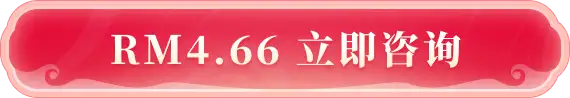
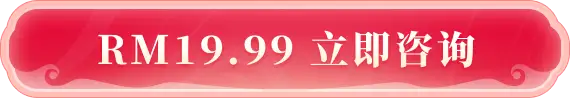
feat:替换按钮图片

Changed region(s): [[0.1491, 0.3061, 0.8351, 0.7041]]

diff --git a/src/pages/emotion_fortune/detail/index.vue b/src/pages/emotion_fortune/detail/index.vue
@@ -1,92 +1,36 @@
 <template>
-  <div :class="{ detail: true, 'hidden-scroll': pay_modal || !!localStorage.getItem('mlxz_outer_animation') || show_discount_modal}">
-    <FbShareNotice v-if="is_show_fb_notice && !localStorage.getItem('mlxz_outer_animation')"/>
-    <AnimationPage v-if="!!localStorage.getItem('mlxz_outer_animation')" product_key="h5_emotion2024" :visible="showAnimation"  @update-visible="showAnimation = false"/>
-    <PayGuideModal v-if="showPayGuideModal" @show_modal="showModal"/> 
-    <img
-      class="header-title"
-      :src="is_cn ? cn_info_title : tw_info_title"
-      alt=""
-    />
-    
-    
+  <div
+    :class="{ detail: true, 'hidden-scroll': pay_modal || !!localStorage.getItem('mlxz_outer_animation') || show_discount_modal }">
+    <FbShareNotice v-if="is_show_fb_notice && !localStorage.getItem('mlxz_outer_animation')" />
+    <AnimationPage v-if="!!localStorage.getItem('mlxz_outer_animation')" product_key="h5_emotion2024"
+      :visible="showAnimation" @update-visible="showAnimation = false" />
+    <PayGuideModal v-if="showPayGuideModal" @show_modal="showModal" />
+    <img class="header-title" :src="is_cn ? cn_info_title : tw_info_title" alt="" />
+
+
     <div :class="{ 'pay-box': true, 'cn-bg': is_cn, 'tw-bg': !is_cn }">
-      <BaziTable
-        :sex="sex"
-        :is_result="is_result"
-        :username="username"
-        :gongli_nongli="gongli_nongli"
-        :picker_date_yangli="picker_date_yangli"
-        :picker_date_nongli="picker_date_nongli"
-        :gan="gan"
-        :zhi="zhi"
-        :nayin="nayin"
-        :cai_bo_num="cai_bo_num"
-        :gui_ren_num="gui_ren_num"
-        :hun_yin_num="hun_yin_num"
-        :ming_ge="ming_ge"
-        :riyuanqiangruo="riyuanqiangruo"
-        :shi_ye_num="shi_ye_num"
-        :wuxingqiang="wuxingqiang"
-        :tao_hua_num="0"
-        fuqigong=""
-        text_color="#6D2215"
-        minge_color="#EC436B"
-        :show_daji="false"
-        bg="#fff"
-        width="6.5rem"
-        table_border="0.02rem solid #EC436B"
-        border_color="#EC436B"
-        :is_show_taohua="1"
-        :change_color="true"
-      >
+      <BaziTable :sex="sex" :is_result="is_result" :username="username" :gongli_nongli="gongli_nongli"
+        :picker_date_yangli="picker_date_yangli" :picker_date_nongli="picker_date_nongli" :gan="gan" :zhi="zhi"
+        :nayin="nayin" :cai_bo_num="cai_bo_num" :gui_ren_num="gui_ren_num" :hun_yin_num="hun_yin_num" :ming_ge="ming_ge"
+        :riyuanqiangruo="riyuanqiangruo" :shi_ye_num="shi_ye_num" :wuxingqiang="wuxingqiang" :tao_hua_num="0"
+        fuqigong="" text_color="#6D2215" minge_color="#EC436B" :show_daji="false" bg="#fff" width="6.5rem"
+        table_border="0.02rem solid #EC436B" border_color="#EC436B" :is_show_taohua="1" :change_color="true">
       </BaziTable>
     </div>
-    <PayItem product_key="h5_emotion2024" @show_modal="showModal" :show_pay_guide_modal="showPayGuideModal"/>
+    <PayItem product_key="h5_emotion2024" @show_modal="showModal" :show_pay_guide_modal="showPayGuideModal" />
     <div :class="['method-box', !is_show_combination ? 'method-height' : null]">
-      <img
-        id="method-title-img"
-        class="method-title-img"
-        :src="is_cn ? img_zhifu_jian : img_zhifu_fan"
-      />
-      <MarriagesPayDetail
-        v-if="is03_series"
-        className="pay-method"
-        ref="payDetail"
-        :product_key="product_key"
-        :bg="language === 'zh-CN' ? cn_modal_bg : tw_modal_bg"
-        :query_user_string="query_user_string"
-        e_view_id="10006"
-        c_view_id="-10005"
-        e_view_name="view_2024lovely_pay"
-        a_view_token="184kba"
-        c_click_id="-10006"
-        e_click_name="click_2024lovely_pay"
-        a_click_token="2rov44"
-      />
-      <PayDetail
-        v-else
-        className="pay-method"
-        ref="payDetail"
-        :product_key="product_key"
-        :bg="language === 'zh-CN' ? cn_modal_bg : tw_modal_bg"
-        :query_user_string="query_user_string"
-        e_view_id="10006"
-        c_view_id="-10005"
-        e_view_name="view_2024lovely_pay"
-        a_view_token="184kba"
-        c_click_id="-10006"
-        e_click_name="click_2024lovely_pay"
-        a_click_token="2rov44"
-      />
+      <img id="method-title-img" class="method-title-img" :src="is_cn ? img_zhifu_jian : img_zhifu_fan" />
+      <MarriagesPayDetail v-if="is03_series" className="pay-method" ref="payDetail" :product_key="product_key"
+        :bg="language === 'zh-CN' ? cn_modal_bg : tw_modal_bg" :query_user_string="query_user_string" e_view_id="10006"
+        c_view_id="-10005" e_view_name="view_2024lovely_pay" a_view_token="184kba" c_click_id="-10006"
+        e_click_name="click_2024lovely_pay" a_click_token="2rov44" />
+      <PayDetail v-else className="pay-method" ref="payDetail" :product_key="product_key"
+        :bg="language === 'zh-CN' ? cn_modal_bg : tw_modal_bg" :query_user_string="query_user_string" e_view_id="10006"
+        c_view_id="-10005" e_view_name="view_2024lovely_pay" a_view_token="184kba" c_click_id="-10006"
+        e_click_name="click_2024lovely_pay" a_click_token="2rov44" />
     </div>
-    <GejuInfo
-      v-if="is_show_combinationSpecial02"
-      style="margin-bottom: 0.36rem"
-      :product_key="product_key"
-      :user_desc="[mingge_desc]"
-      :dataList="[gejujiedu]"
-    />
+    <GejuInfo v-if="is_show_combinationSpecial02" style="margin-bottom: 0.36rem" :product_key="product_key"
+      :user_desc="[mingge_desc]" :dataList="[gejujiedu]" />
     <!-- <div class="card-box">
       <canvas id="qian"></canvas>
     </div> -->
@@ -119,9 +63,9 @@
       e_click_name="click_2024lovely_pay"
       a_click_token="2rov44"
     /> -->
-    <img @click="payOrder" class="fix-btn emo-btn" :src="btn_url" />
+    <img @click="payOrder" :class="['emo-btn', is03_series? 'fix-btn1': 'fix-btn']" :src="btn_url" />
     <HomeFooter product_key="h5_emotion2024" />
-    <FixedDiscountModal product_key="h5_emotion2024" @change_discount_modal="change_discount_modal"/>
+    <FixedDiscountModal product_key="h5_emotion2024" @change_discount_modal="change_discount_modal" />
   </div>
 </template>
 
@@ -139,6 +83,10 @@ import cn_home_btn from '../../../assets/img/emotion_v2/new/cn/pay.webp';
 import tw_home_btn from '../../../assets/img/emotion_v2/new/tw/pay.webp';
 import cn_home_xs_btn from '../../../assets/img/emotion_v2/new/cn/pay_xs.webp';
 import tw_home_xs_btn from '../../../assets/img/emotion_v2/new/tw/pay_xs.webp';
+
+import img_home_btu_zixun_cn from '../../../assets/img/emotion_marriages/cn/img_home_btu_zixun_cn.webp'
+import img_home_btu_zixun_tw from '../../../assets/img/emotion_marriages/tw/img_home_btu_zixun_tw.webp'
+
 
 import PayCard from '../../../components/PayCard.vue';
 import cn_card_1 from '../../../assets/img/emotion/home_card1.webp';
@@ -209,6 +157,8 @@ export default {
       tw_home_btn1,
       cn_home_xs_btn,
       tw_home_xs_btn,
+      img_home_btu_zixun_cn,
+      img_home_btu_zixun_tw,
       cn_zhong3,
       cn_zhong4,
       tw_zhong3,
@@ -264,7 +214,7 @@ export default {
   },
   watch: {
     showAnimation(val) {
-      if(!val) {
+      if (!val) {
         setTimeout(() => {
           this.$nextTick(() => {
             //排除渠道3
@@ -282,10 +232,10 @@ export default {
 
   computed: {
     is03_series() {
-      return utils.getEndStr(utils.getFBChannel(), 2) ==='03'
+      return utils.getEndStr(utils.getFBChannel(), 2) === '03'
     },
     is_show_fb_notice() {
-      return utils.isFBContainer() && utils.getFBChannel().indexOf('02')>-1;
+      return utils.isFBContainer() && utils.getFBChannel().indexOf('02') > -1;
     },
     //套餐支付显示逻辑
     is_show_combination() {
@@ -313,6 +263,9 @@ export default {
     channel2() {
       return ['enjoy02', 'panda02'].includes(utils.getFBChannel());
     },
+    is03_series() {
+      return utils.getEndStr(utils.getFBChannel(), 2) === '03'
+    },
     is_cn() {
       return utils.getLanguage() === 'zh-CN';
     },
@@ -320,22 +273,26 @@ export default {
       if (this.language === 'zh-CN') {
         if (this.channel1) {
           return cn_home_btn;
-        } 
+        }
         else if (this.channel2) {
           // return cn_home_xs_btn;
           return cn_home_btn1;
-        } 
+        } else if (this.is03_series) {
+          return img_home_btu_zixun_cn;
+        }
         else {
           return cn_home_btn1;
         }
       } else {
         if (this.channel1) {
           return tw_home_btn;
-        } 
+        }
         else if (this.channel2) {
           // return tw_home_xs_btn;
           return tw_home_btn1;
-        } 
+        } else if (this.is03_series) {
+          return img_home_btu_zixun_tw;
+        }
         else {
           return tw_home_btn1;
         }
@@ -400,10 +357,10 @@ export default {
     });
   },
   methods: {
-     /**
-     * 显示低价折扣遮罩
-     */
-     change_discount_modal(val) {
+    /**
+    * 显示低价折扣遮罩
+    */
+    change_discount_modal(val) {
       this.show_discount_modal = val;
     },
     showModal() {
@@ -484,30 +441,27 @@ export default {
       );
       let lunar = solar.getLunar();
       this.picker_date_nongli = +this.gongli_nongli
-        ? `${lunar.getYear()}年${lunar.getMonthInChinese()}月${lunar.getDayInChinese()} ${
-            this.picker_hour
-          }`
+        ? `${lunar.getYear()}年${lunar.getMonthInChinese()}月${lunar.getDayInChinese()} ${this.picker_hour
+        }`
         : `${this.year}年${utils.formateNongliMonth(
-            this.month
-          )}${utils.formateNongliDate(this.date)} ${this.picker_hour}`;
+          this.month
+        )}${utils.formateNongliDate(this.date)} ${this.picker_hour}`;
       this.picker_date_yangli = +this.gongli_nongli
         ? `${this.year}-${this.month}-${this.date} ${this.picker_hour}`
         : `${Lunar.fromYmd(+this.year, +this.month, +this.date)
-            .getSolar()
-            .toString()} ${this.picker_hour}`;
+          .getSolar()
+          .toString()} ${this.picker_hour}`;
 
       let nongli_desc = +this.gongli_nongli
         ? `${lunar.getYear()}年${lunar.getMonthInChinese()}月${lunar.getDayInChinese()} `
         : `${this.year}年${utils.formateNongliMonth(
-            this.month
-          )}${utils.formateNongliDate(this.date)}`;
+          this.month
+        )}${utils.formateNongliDate(this.date)}`;
       this.mingge_desc = +this.gongli_nongli
-        ? `${(this.username = utils.getShortStr(arr[0], 4))}，${
-            this.sex === 0 ? '女' : '男'
-          }，${this.year}年${this.month}月${this.date}日生人`
-        : `${(this.username = utils.getShortStr(arr[0], 4))}，${
-            this.sex === 0 ? '女' : '男'
-          }，${nongli_desc}生人`;
+        ? `${(this.username = utils.getShortStr(arr[0], 4))}，${this.sex === 0 ? '女' : '男'
+        }，${this.year}年${this.month}月${this.date}日生人`
+        : `${(this.username = utils.getShortStr(arr[0], 4))}，${this.sex === 0 ? '女' : '男'
+        }，${nongli_desc}生人`;
     },
 
     // 支付弹窗
@@ -580,14 +534,12 @@ export default {
   }
 
   .cn-bg {
-    background: url(../../../assets/img/emotion_v2/new/cn/detail/img_xinxi_jian.webp)
-      no-repeat;
+    background: url(../../../assets/img/emotion_v2/new/cn/detail/img_xinxi_jian.webp) no-repeat;
     background-size: 100% 100%;
   }
 
   .tw-bg {
-    background: url(../../../assets/img/emotion_v2/new/tw/detail/img_xinxi_fan.webp)
-      no-repeat;
+    background: url(../../../assets/img/emotion_v2/new/tw/detail/img_xinxi_fan.webp) no-repeat;
     background-size: 100% 100%;
   }
 
@@ -647,12 +599,21 @@ export default {
 }
 
 .fix-btn {
-  width: 6.26rem;
+  width: 6.28rem;
   height: 1.34rem;
   position: fixed;
   bottom: 0.2rem;
   z-index: 99;
 }
+.fix-btn1 {
+  width: 5.7rem;
+  height: 0.98rem;
+  position: fixed;
+  bottom: 0.2rem;
+  z-index: 99;
+}
+
+
 
 .pay-method {
   width: 6.5rem;

diff --git a/src/router/emotion_fortune.js b/src/router/emotion_fortune.js
@@ -11,7 +11,28 @@ import index from './../pages/emotion_fortune/home/index.vue';
 import detail from './../pages/emotion_fortune/detail/index.vue';
 import result from './../pages/emotion_fortune/result/index.vue';
 import utils from '../libs/utils';
+import request from '../api/request';
 Vue.use(Router);
+
+const visitorLoginAPI = async (data, callback) => {
+  if (
+    localStorage.getItem('mlxz_outer_open_uid') ||
+    localStorage.getItem('mlxz_outer_access_token') ||
+    localStorage.getItem('mlxz_outer_visitor_id')
+  ) {
+
+  }
+  else {
+    const res = await request('/web/login/visitor', 'POST', data);
+    if (res.status !== 1000) return;
+    localStorage.setItem('mlxz_outer_open_uid', res.data.open_uid);
+    localStorage.setItem('mlxz_outer_access_token', res.data.access_token);
+    localStorage.setItem('mlxz_outer_visitor_id', res.data.visitor_id);
+    fbq('init', utils.getFbId()[utils.getFBChannel()], {'external_id': localStorage.getItem('mlxz_outer_visitor_id')|| ''});
+    // console.log('首次登录');
+  }
+ 
+};
 
 const checkCurrentCountry = async (callback) => {
   if (localStorage.getItem('current_country')) {
@@ -34,6 +55,7 @@ export default new Router({
       name: 'index',
       component: index,
       beforeEnter: (to, from, next) => {
+        visitorLoginAPI()
         if (utils.getEndStr(utils.getFBChannel(), 2) === '03') {
           checkCurrentCountry(next)
         } else {
@@ -46,6 +68,7 @@ export default new Router({
       name: 'detail',
       component: detail,
       beforeEnter: (to, from, next) => {
+        visitorLoginAPI()
         if (utils.getEndStr(utils.getFBChannel(), 2) === '03') {
           checkCurrentCountry(next)
         } else {
@@ -58,6 +81,7 @@ export default new Router({
       name: 'result',
       component: result,
       beforeEnter: (to, from, next) => {
+        visitorLoginAPI()
         if (utils.getEndStr(utils.getFBChannel(), 2) === '03') {
           checkCurrentCountry(next)
         } else {
@@ -69,6 +93,7 @@ export default new Router({
       path: '*',
       redirect: '/',
       beforeEnter: (to, from, next) => {
+        visitorLoginAPI()
         if (utils.getEndStr(utils.getFBChannel(), 2) === '03') {
           checkCurrentCountry(next)
         } else {

diff --git a/src/libs/utils.js b/src/libs/utils.js
@@ -108,7 +108,7 @@ const getFBChannel = () => {
   } else if (url.indexOf('/enjoyA11/') > -1) {
     return 'enjoyA11';
   } else {
-    return 'enjoy10';
+    return 'enjoy03';
   }
 };
 
